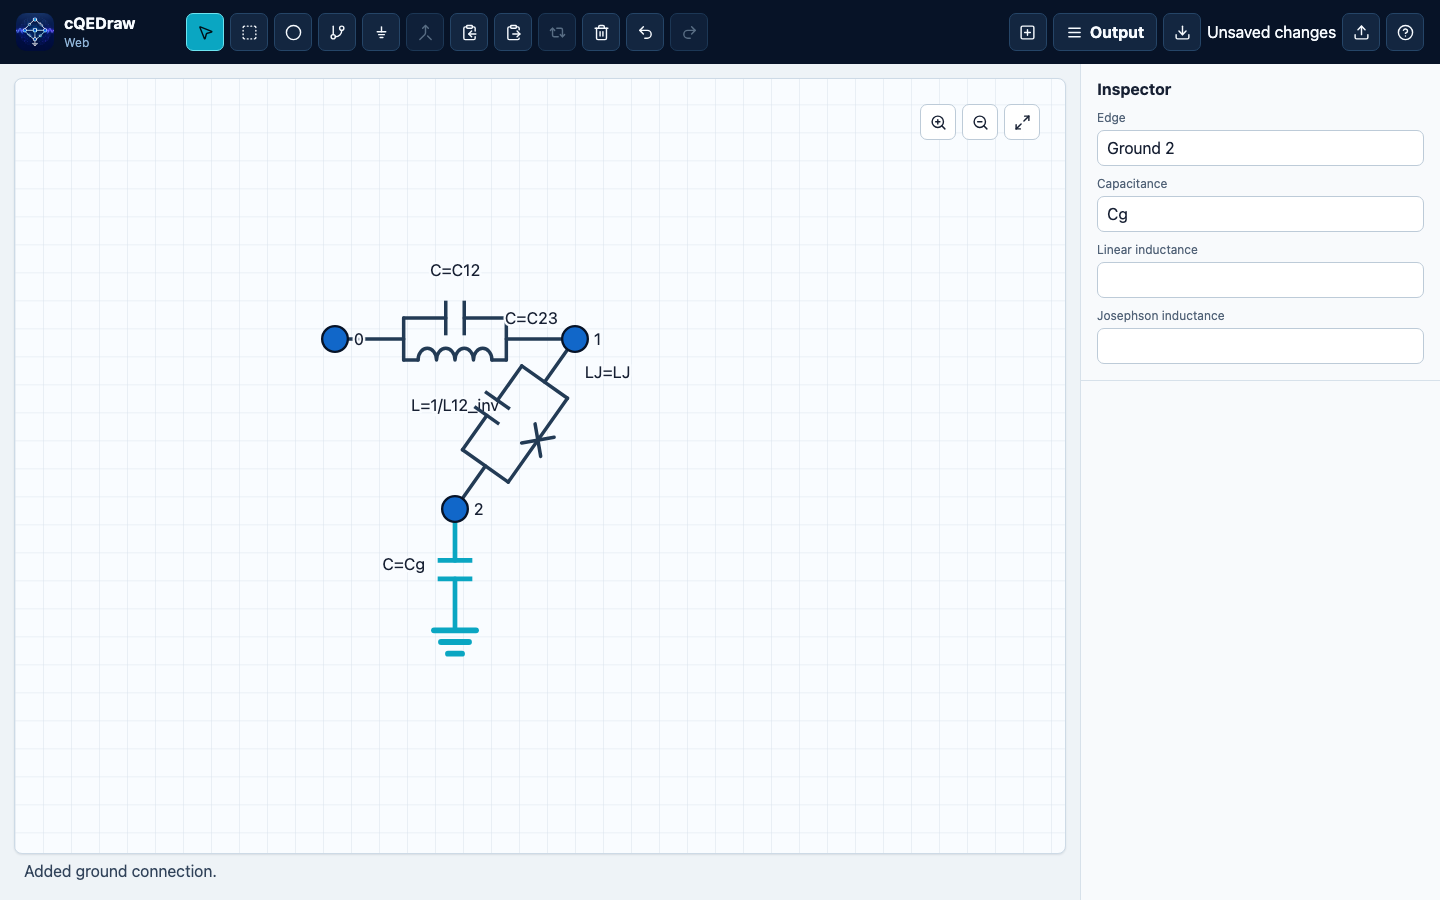
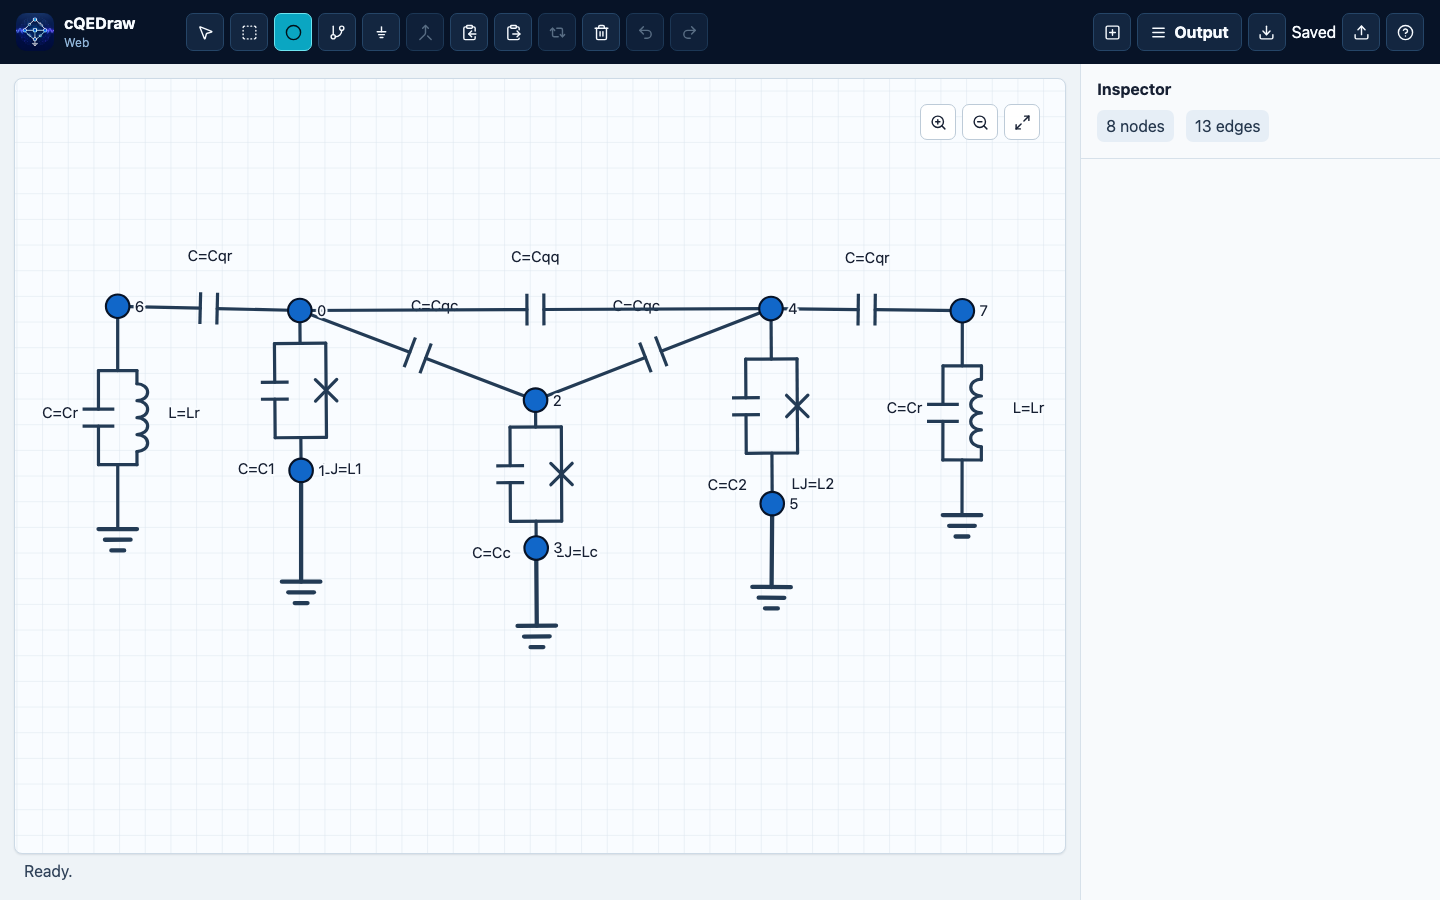
Refresh README circuit screenshot (#144)

diff --git a/README.md b/README.md
@@ -15,7 +15,7 @@ the linear circuit, then paste the generated matrices into a Python analysis
 that constructs `sccircuits.BBQ` objects. The app remains installable on its
 own because it is a launched desktop-style tool, not an imported library API.
 
-[![cQEDraw web editor showing a superconducting circuit graph](assets/web-editor-screenshot.png)](https://cqedraw.org/)
+[![cQEDraw web editor showing an 8-node superconducting circuit graph](assets/web-editor-screenshot.png)](https://cqedraw.org/)
 
 ## What cQEDraw Helps With
 